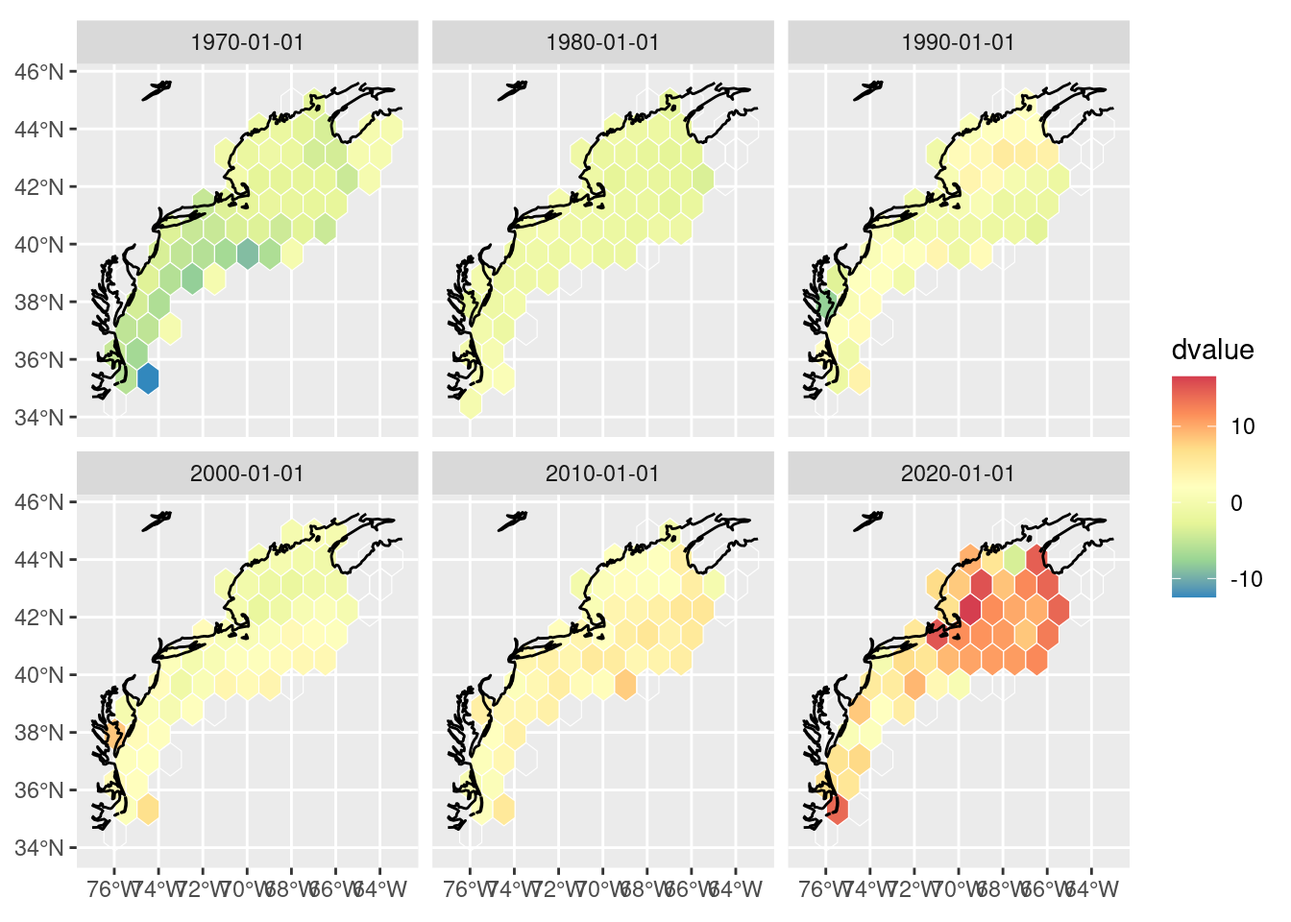
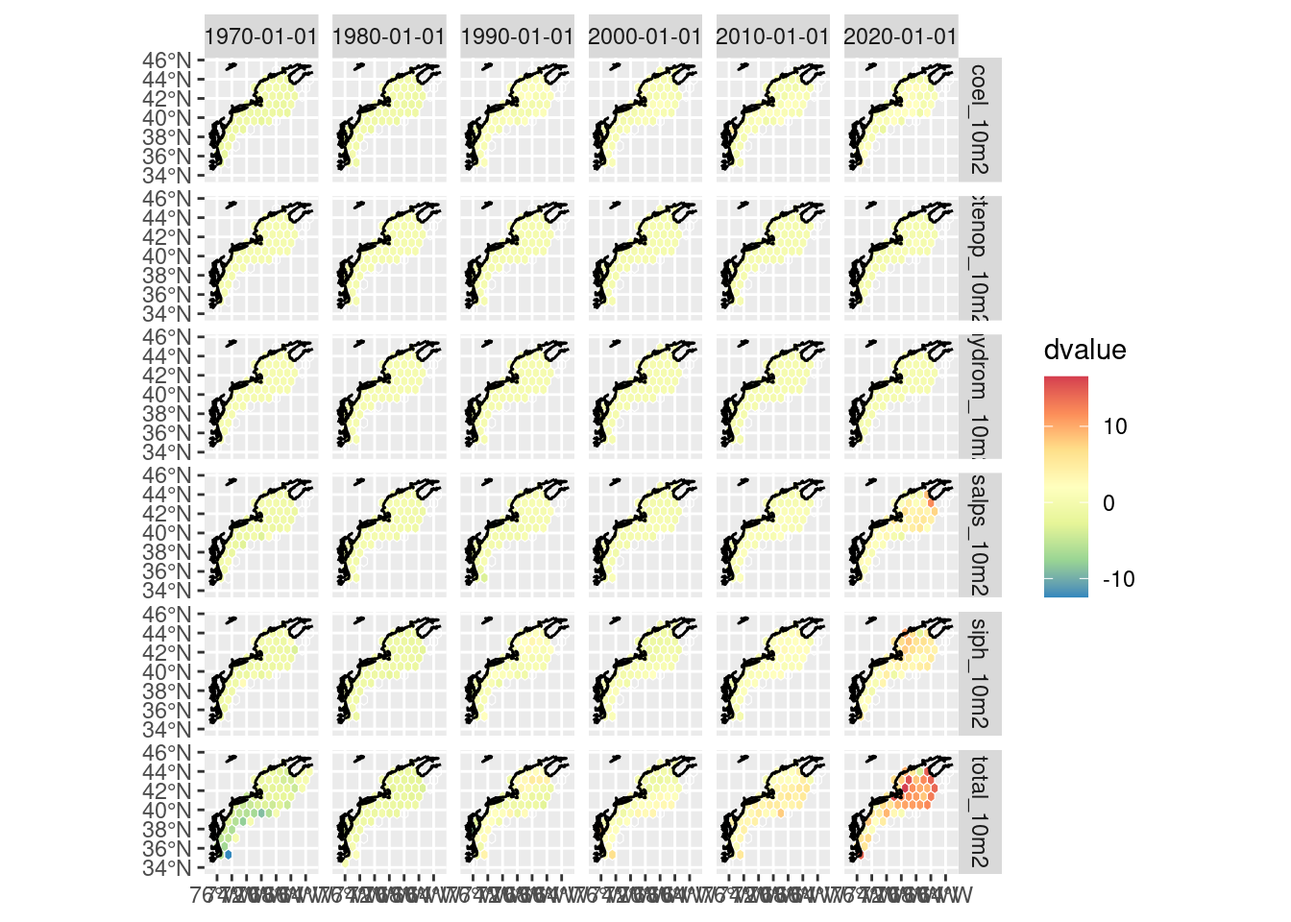
add monthly climatology

diff --git a/docs/07_changes.html b/docs/07_changes.html
@@ -208,6 +208,7 @@ pre > code.sourceCode > span > a:first-child::before { text-decoration: underlin
   <li><a href="#summaries-across-all-time" id="toc-summaries-across-all-time" class="nav-link active" data-scroll-target="#summaries-across-all-time"><span class="header-section-number">1</span> Summaries across all time</a></li>
   <li><a href="#mean-abudance" id="toc-mean-abudance" class="nav-link" data-scroll-target="#mean-abudance"><span class="header-section-number">2</span> Mean abudance</a></li>
   <li><a href="#decadal-abundance" id="toc-decadal-abundance" class="nav-link" data-scroll-target="#decadal-abundance"><span class="header-section-number">3</span> Decadal abundance</a></li>
+  <li><a href="#monthly-climatologies" id="toc-monthly-climatologies" class="nav-link" data-scroll-target="#monthly-climatologies"><span class="header-section-number">4</span> Monthly climatologies</a></li>
   </ul>
 </nav>
     </div>
@@ -237,12 +238,19 @@ pre > code.sourceCode > span > a:first-child::before { text-decoration: underlin
 <div class="cell">
 <details class="code-fold">
 <summary>Code</summary>
-<div class="sourceCode cell-code" id="cb1"><pre class="sourceCode r code-with-copy"><code class="sourceCode r"><span id="cb1-1"><a href="#cb1-1" aria-hidden="true" tabindex="-1"></a>x <span class="ot">=</span> <span class="fu">read_ecomon_spp</span>(<span class="at">form =</span> <span class="st">'sf'</span>) <span class="sc">|&gt;</span> <span class="fu">ecomon_to_long</span>()</span>
-<span id="cb1-2"><a href="#cb1-2" aria-hidden="true" tabindex="-1"></a>h <span class="ot">=</span> <span class="fu">read_hexgrid</span>()</span>
-<span id="cb1-3"><a href="#cb1-3" aria-hidden="true" tabindex="-1"></a>coast <span class="ot">=</span> <span class="fu">read_coast</span>()</span>
-<span id="cb1-4"><a href="#cb1-4" aria-hidden="true" tabindex="-1"></a><span class="fu">plot</span>(sf<span class="sc">::</span><span class="fu">st_geometry</span>(x), <span class="at">pch =</span> <span class="st">"."</span>, <span class="at">axes =</span> <span class="cn">TRUE</span>, <span class="at">reset =</span> <span class="cn">FALSE</span>, <span class="at">main =</span> <span class="st">"All records"</span>)</span>
-<span id="cb1-5"><a href="#cb1-5" aria-hidden="true" tabindex="-1"></a><span class="fu">plot</span>(sf<span class="sc">::</span><span class="fu">st_geometry</span>(h), <span class="at">border =</span> <span class="st">"gray"</span>, <span class="at">add =</span> <span class="cn">TRUE</span>)</span>
-<span id="cb1-6"><a href="#cb1-6" aria-hidden="true" tabindex="-1"></a><span class="fu">plot</span>(coast, <span class="at">col =</span> <span class="st">"orange"</span>, <span class="at">add =</span> <span class="cn">TRUE</span>)</span></code><button title="Copy to Clipboard" class="code-copy-button"><i class="bi"></i></button></pre></div>
+<div class="sourceCode cell-code" id="cb1"><pre class="sourceCode r code-with-copy"><code class="sourceCode r"><span id="cb1-1"><a href="#cb1-1" aria-hidden="true" tabindex="-1"></a>decades <span class="ot">=</span> <span class="fu">seq</span>(<span class="fu">as.Date</span>(<span class="st">"1970-01-01"</span>), <span class="fu">as.Date</span>(<span class="st">"2020-01-01"</span>), <span class="at">by =</span> <span class="st">"10 years"</span>)</span>
+<span id="cb1-2"><a href="#cb1-2" aria-hidden="true" tabindex="-1"></a>x <span class="ot">=</span> <span class="fu">read_ecomon_spp</span>(<span class="at">form =</span> <span class="st">'sf'</span>) <span class="sc">|&gt;</span> <span class="fu">ecomon_to_long</span>()</span>
+<span id="cb1-3"><a href="#cb1-3" aria-hidden="true" tabindex="-1"></a>sf_col <span class="ot">=</span> <span class="fu">attr</span>(x, <span class="st">"sf_column"</span>)</span>
+<span id="cb1-4"><a href="#cb1-4" aria-hidden="true" tabindex="-1"></a>x <span class="ot">=</span> x <span class="sc">|&gt;</span></span>
+<span id="cb1-5"><a href="#cb1-5" aria-hidden="true" tabindex="-1"></a>  dplyr<span class="sc">::</span><span class="fu">mutate</span>(<span class="at">year =</span> <span class="fu">format</span>(date, <span class="st">"%Y"</span>),</span>
+<span id="cb1-6"><a href="#cb1-6" aria-hidden="true" tabindex="-1"></a>                <span class="at">month =</span> <span class="fu">format</span>(date, <span class="st">"%b"</span>) <span class="sc">|&gt;</span> <span class="fu">factor</span>(<span class="at">levels =</span> month.abb),</span>
+<span id="cb1-7"><a href="#cb1-7" aria-hidden="true" tabindex="-1"></a>                <span class="at">decade =</span> decades[<span class="fu">findInterval</span>(.data<span class="sc">$</span>date, decades)],</span>
+<span id="cb1-8"><a href="#cb1-8" aria-hidden="true" tabindex="-1"></a>                <span class="at">.before =</span> dplyr<span class="sc">::</span><span class="fu">all_of</span>(sf_col))</span>
+<span id="cb1-9"><a href="#cb1-9" aria-hidden="true" tabindex="-1"></a>h <span class="ot">=</span> <span class="fu">read_hexgrid</span>()</span>
+<span id="cb1-10"><a href="#cb1-10" aria-hidden="true" tabindex="-1"></a>coast <span class="ot">=</span> <span class="fu">read_coast</span>()</span>
+<span id="cb1-11"><a href="#cb1-11" aria-hidden="true" tabindex="-1"></a><span class="fu">plot</span>(sf<span class="sc">::</span><span class="fu">st_geometry</span>(x), <span class="at">pch =</span> <span class="st">"."</span>, <span class="at">axes =</span> <span class="cn">TRUE</span>, <span class="at">reset =</span> <span class="cn">FALSE</span>, <span class="at">main =</span> <span class="st">"All records"</span>)</span>
+<span id="cb1-12"><a href="#cb1-12" aria-hidden="true" tabindex="-1"></a><span class="fu">plot</span>(sf<span class="sc">::</span><span class="fu">st_geometry</span>(h), <span class="at">border =</span> <span class="st">"gray"</span>, <span class="at">add =</span> <span class="cn">TRUE</span>)</span>
+<span id="cb1-13"><a href="#cb1-13" aria-hidden="true" tabindex="-1"></a><span class="fu">plot</span>(coast, <span class="at">col =</span> <span class="st">"orange"</span>, <span class="at">add =</span> <span class="cn">TRUE</span>)</span></code><button title="Copy to Clipboard" class="code-copy-button"><i class="bi"></i></button></pre></div>
 </details>
 <div class="cell-output-display">
 <div>
@@ -259,12 +267,11 @@ pre > code.sourceCode > span > a:first-child::before { text-decoration: underlin
 <details class="code-fold">
 <summary>Code</summary>
 <div class="sourceCode cell-code" id="cb2"><pre class="sourceCode r code-with-copy"><code class="sourceCode r"><span id="cb2-1"><a href="#cb2-1" aria-hidden="true" tabindex="-1"></a>totabund <span class="ot">=</span> <span class="fu">tally_abundance</span>(x, h, <span class="at">fun =</span> sum, <span class="at">na.rm =</span> <span class="cn">TRUE</span>, <span class="at">shape =</span> <span class="st">"long"</span>) <span class="sc">|&gt;</span></span>
-<span id="cb2-2"><a href="#cb2-2" aria-hidden="true" tabindex="-1"></a>  <span class="co">#dplyr::mutate(value = log(value+0.01)) |&gt; </span></span>
-<span id="cb2-3"><a href="#cb2-3" aria-hidden="true" tabindex="-1"></a>  <span class="fu">wider_abundance</span>()</span>
-<span id="cb2-4"><a href="#cb2-4" aria-hidden="true" tabindex="-1"></a>nbreaks <span class="ot">=</span> <span class="dv">10</span></span>
-<span id="cb2-5"><a href="#cb2-5" aria-hidden="true" tabindex="-1"></a><span class="fu">plot</span>(totabund,</span>
-<span id="cb2-6"><a href="#cb2-6" aria-hidden="true" tabindex="-1"></a>     <span class="at">nbreaks =</span> nbreaks,</span>
-<span id="cb2-7"><a href="#cb2-7" aria-hidden="true" tabindex="-1"></a>     <span class="at">pal =</span> RColorBrewer<span class="sc">::</span><span class="fu">brewer.pal</span>(nbreaks<span class="dv">-1</span>, <span class="st">"Greens"</span>))</span></code><button title="Copy to Clipboard" class="code-copy-button"><i class="bi"></i></button></pre></div>
+<span id="cb2-2"><a href="#cb2-2" aria-hidden="true" tabindex="-1"></a>  <span class="fu">wider_abundance</span>()</span>
+<span id="cb2-3"><a href="#cb2-3" aria-hidden="true" tabindex="-1"></a>nbreaks <span class="ot">=</span> <span class="dv">10</span></span>
+<span id="cb2-4"><a href="#cb2-4" aria-hidden="true" tabindex="-1"></a><span class="fu">plot</span>(totabund,</span>
+<span id="cb2-5"><a href="#cb2-5" aria-hidden="true" tabindex="-1"></a>     <span class="at">nbreaks =</span> nbreaks,</span>
+<span id="cb2-6"><a href="#cb2-6" aria-hidden="true" tabindex="-1"></a>     <span class="at">pal =</span> RColorBrewer<span class="sc">::</span><span class="fu">brewer.pal</span>(nbreaks<span class="dv">-1</span>, <span class="st">"Greens"</span>))</span></code><button title="Copy to Clipboard" class="code-copy-button"><i class="bi"></i></button></pre></div>
 </details>
 <div class="cell-output-display">
 <div>
@@ -299,42 +306,37 @@ pre > code.sourceCode > span > a:first-child::before { text-decoration: underlin
 </section>
 <section id="decadal-abundance" class="level1" data-number="3">
 <h1 data-number="3"><span class="header-section-number">3</span> Decadal abundance</h1>
+<p>Here we look at decadal abundance departures for the long term mean.</p>
 <div class="cell">
 <details class="code-fold">
 <summary>Code</summary>
-<div class="sourceCode cell-code" id="cb4"><pre class="sourceCode r code-with-copy"><code class="sourceCode r"><span id="cb4-1"><a href="#cb4-1" aria-hidden="true" tabindex="-1"></a>decades <span class="ot">=</span> <span class="fu">seq</span>(<span class="fu">as.Date</span>(<span class="st">"1970-01-01"</span>), <span class="fu">as.Date</span>(<span class="st">"2020-01-01"</span>), <span class="at">by =</span> <span class="st">"10 years"</span>)</span>
-<span id="cb4-2"><a href="#cb4-2" aria-hidden="true" tabindex="-1"></a>y <span class="ot">=</span> dplyr<span class="sc">::</span><span class="fu">mutate</span>(x,</span>
-<span id="cb4-3"><a href="#cb4-3" aria-hidden="true" tabindex="-1"></a>                  <span class="at">decade =</span> decades[<span class="fu">findInterval</span>(.data<span class="sc">$</span>date, decades)]) <span class="sc">|&gt;</span></span>
-<span id="cb4-4"><a href="#cb4-4" aria-hidden="true" tabindex="-1"></a>  <span class="fu">group_by</span>(name, decade) <span class="sc">|&gt;</span></span>
-<span id="cb4-5"><a href="#cb4-5" aria-hidden="true" tabindex="-1"></a>  <span class="fu">group_map</span>(</span>
-<span id="cb4-6"><a href="#cb4-6" aria-hidden="true" tabindex="-1"></a>    <span class="cf">function</span>(tbl, key){</span>
-<span id="cb4-7"><a href="#cb4-7" aria-hidden="true" tabindex="-1"></a>      <span class="fu">tally_by_poly</span>(tbl, h, <span class="at">fun =</span> mean, <span class="at">na.rm =</span> <span class="cn">TRUE</span>, <span class="at">shape =</span> <span class="st">"long"</span>) <span class="sc">|&gt;</span></span>
-<span id="cb4-8"><a href="#cb4-8" aria-hidden="true" tabindex="-1"></a>        dplyr<span class="sc">::</span><span class="fu">mutate</span>(<span class="at">name =</span> key<span class="sc">$</span>name, <span class="at">decade =</span> key<span class="sc">$</span>decade, <span class="at">.before =</span> <span class="dv">1</span>) <span class="sc">|&gt;</span></span>
-<span id="cb4-9"><a href="#cb4-9" aria-hidden="true" tabindex="-1"></a>        <span class="fu">write_abundance</span>(<span class="fu">sprintf</span>(<span class="st">"%s_%s_mean"</span>,</span>
-<span id="cb4-10"><a href="#cb4-10" aria-hidden="true" tabindex="-1"></a>                                <span class="fu">format</span>(key<span class="sc">$</span>decade, <span class="st">"%Y"</span>),</span>
-<span id="cb4-11"><a href="#cb4-11" aria-hidden="true" tabindex="-1"></a>                                key<span class="sc">$</span>name))</span>
-<span id="cb4-12"><a href="#cb4-12" aria-hidden="true" tabindex="-1"></a>    }</span>
-<span id="cb4-13"><a href="#cb4-13" aria-hidden="true" tabindex="-1"></a>  ) <span class="sc">|&gt;</span></span>
-<span id="cb4-14"><a href="#cb4-14" aria-hidden="true" tabindex="-1"></a>  dplyr<span class="sc">::</span><span class="fu">bind_rows</span>()</span></code><button title="Copy to Clipboard" class="code-copy-button"><i class="bi"></i></button></pre></div>
+<div class="sourceCode cell-code" id="cb4"><pre class="sourceCode r code-with-copy"><code class="sourceCode r"><span id="cb4-1"><a href="#cb4-1" aria-hidden="true" tabindex="-1"></a>y <span class="ot">=</span> x <span class="sc">|&gt;</span></span>
+<span id="cb4-2"><a href="#cb4-2" aria-hidden="true" tabindex="-1"></a>  <span class="fu">group_by</span>(name, decade) <span class="sc">|&gt;</span></span>
+<span id="cb4-3"><a href="#cb4-3" aria-hidden="true" tabindex="-1"></a>  <span class="fu">group_map</span>(</span>
+<span id="cb4-4"><a href="#cb4-4" aria-hidden="true" tabindex="-1"></a>    <span class="cf">function</span>(tbl, key){</span>
+<span id="cb4-5"><a href="#cb4-5" aria-hidden="true" tabindex="-1"></a>      <span class="fu">tally_by_poly</span>(tbl, h, <span class="at">fun =</span> mean, <span class="at">na.rm =</span> <span class="cn">TRUE</span>, <span class="at">shape =</span> <span class="st">"long"</span>) <span class="sc">|&gt;</span></span>
+<span id="cb4-6"><a href="#cb4-6" aria-hidden="true" tabindex="-1"></a>        dplyr<span class="sc">::</span><span class="fu">mutate</span>(<span class="at">name =</span> key<span class="sc">$</span>name, <span class="at">decade =</span> key<span class="sc">$</span>decade, <span class="at">.before =</span> <span class="dv">1</span>)</span>
+<span id="cb4-7"><a href="#cb4-7" aria-hidden="true" tabindex="-1"></a>    }</span>
+<span id="cb4-8"><a href="#cb4-8" aria-hidden="true" tabindex="-1"></a>  ) <span class="sc">|&gt;</span></span>
+<span id="cb4-9"><a href="#cb4-9" aria-hidden="true" tabindex="-1"></a>  dplyr<span class="sc">::</span><span class="fu">bind_rows</span>()</span></code><button title="Copy to Clipboard" class="code-copy-button"><i class="bi"></i></button></pre></div>
 </details>
 </div>
 <div class="cell">
 <details class="code-fold">
 <summary>Code</summary>
-<div class="sourceCode cell-code" id="cb5"><pre class="sourceCode r code-with-copy"><code class="sourceCode r"><span id="cb5-1"><a href="#cb5-1" aria-hidden="true" tabindex="-1"></a>ta <span class="ot">=</span> <span class="fu">tally_abundance</span>(x, h, <span class="at">fun =</span> mean, <span class="at">na.rm =</span> <span class="cn">TRUE</span>, <span class="at">shape =</span> <span class="st">"long"</span>) <span class="sc">|&gt;</span></span>
-<span id="cb5-2"><a href="#cb5-2" aria-hidden="true" tabindex="-1"></a>  dplyr<span class="sc">::</span><span class="fu">filter</span>(name <span class="sc">==</span> <span class="st">"total_10m2"</span>)</span></code><button title="Copy to Clipboard" class="code-copy-button"><i class="bi"></i></button></pre></div>
+<div class="sourceCode cell-code" id="cb5"><pre class="sourceCode r code-with-copy"><code class="sourceCode r"><span id="cb5-1"><a href="#cb5-1" aria-hidden="true" tabindex="-1"></a>ta <span class="ot">=</span> <span class="fu">tally_abundance</span>(x, h, <span class="at">fun =</span> mean, <span class="at">na.rm =</span> <span class="cn">TRUE</span>, <span class="at">shape =</span> <span class="st">"long"</span>)</span></code><button title="Copy to Clipboard" class="code-copy-button"><i class="bi"></i></button></pre></div>
 </details>
 </div>
 <div class="cell">
 <details class="code-fold">
 <summary>Code</summary>
 <div class="sourceCode cell-code" id="cb6"><pre class="sourceCode r code-with-copy"><code class="sourceCode r"><span id="cb6-1"><a href="#cb6-1" aria-hidden="true" tabindex="-1"></a>dy <span class="ot">=</span> y <span class="sc">|&gt;</span></span>
-<span id="cb6-2"><a href="#cb6-2" aria-hidden="true" tabindex="-1"></a>  dplyr<span class="sc">::</span><span class="fu">filter</span>(name <span class="sc">==</span> <span class="st">"total_10m2"</span>) <span class="sc">|&gt;</span></span>
-<span id="cb6-3"><a href="#cb6-3" aria-hidden="true" tabindex="-1"></a>  dplyr<span class="sc">::</span><span class="fu">group_by</span>(decade) <span class="sc">|&gt;</span></span>
-<span id="cb6-4"><a href="#cb6-4" aria-hidden="true" tabindex="-1"></a>  dplyr<span class="sc">::</span><span class="fu">group_map</span>(</span>
-<span id="cb6-5"><a href="#cb6-5" aria-hidden="true" tabindex="-1"></a>    <span class="cf">function</span>(tbl, key){</span>
-<span id="cb6-6"><a href="#cb6-6" aria-hidden="true" tabindex="-1"></a>      d <span class="ot">=</span> tbl<span class="sc">$</span>value <span class="sc">-</span> ta<span class="sc">$</span>value</span>
-<span id="cb6-7"><a href="#cb6-7" aria-hidden="true" tabindex="-1"></a>      dplyr<span class="sc">::</span><span class="fu">mutate</span>(tbl, </span>
+<span id="cb6-2"><a href="#cb6-2" aria-hidden="true" tabindex="-1"></a>  dplyr<span class="sc">::</span><span class="fu">group_by</span>(name, decade) <span class="sc">|&gt;</span></span>
+<span id="cb6-3"><a href="#cb6-3" aria-hidden="true" tabindex="-1"></a>  dplyr<span class="sc">::</span><span class="fu">group_map</span>(</span>
+<span id="cb6-4"><a href="#cb6-4" aria-hidden="true" tabindex="-1"></a>    <span class="cf">function</span>(tbl, key){</span>
+<span id="cb6-5"><a href="#cb6-5" aria-hidden="true" tabindex="-1"></a>      d <span class="ot">=</span> tbl<span class="sc">$</span>value <span class="sc">-</span> dplyr<span class="sc">::</span><span class="fu">filter</span>(ta, name <span class="sc">==</span> key<span class="sc">$</span>name) <span class="sc">|&gt;</span> dplyr<span class="sc">::</span><span class="fu">pull</span>(value)</span>
+<span id="cb6-6"><a href="#cb6-6" aria-hidden="true" tabindex="-1"></a>      dplyr<span class="sc">::</span><span class="fu">mutate</span>(tbl, </span>
+<span id="cb6-7"><a href="#cb6-7" aria-hidden="true" tabindex="-1"></a>                    <span class="at">name =</span> key<span class="sc">$</span>name,</span>
 <span id="cb6-8"><a href="#cb6-8" aria-hidden="true" tabindex="-1"></a>                    <span class="at">dvalue =</span> d, </span>
 <span id="cb6-9"><a href="#cb6-9" aria-hidden="true" tabindex="-1"></a>                    <span class="at">decade =</span> key<span class="sc">$</span>decade,</span>
 <span id="cb6-10"><a href="#cb6-10" aria-hidden="true" tabindex="-1"></a>                    <span class="at">.after =</span> dplyr<span class="sc">::</span><span class="fu">all_of</span>(<span class="st">"value"</span>))  </span>
@@ -349,7 +351,7 @@ pre > code.sourceCode > span > a:first-child::before { text-decoration: underlin
 <span id="cb7-2"><a href="#cb7-2" aria-hidden="true" tabindex="-1"></a>  <span class="fu">geom_sf</span>(<span class="at">color =</span> <span class="st">"white"</span>, <span class="fu">aes</span>(<span class="at">fill =</span> dvalue)) <span class="sc">+</span></span>
 <span id="cb7-3"><a href="#cb7-3" aria-hidden="true" tabindex="-1"></a>  <span class="fu">geom_sf</span>(<span class="at">data =</span> coast) <span class="sc">+</span> </span>
 <span id="cb7-4"><a href="#cb7-4" aria-hidden="true" tabindex="-1"></a>  <span class="fu">scale_fill_distiller</span>(<span class="at">palette =</span> <span class="st">"Spectral"</span>, <span class="at">na.value =</span> <span class="cn">NA</span>, <span class="at">type =</span> <span class="st">"div"</span>) <span class="sc">+</span></span>
-<span id="cb7-5"><a href="#cb7-5" aria-hidden="true" tabindex="-1"></a>  <span class="fu">facet_wrap</span>(<span class="sc">~</span>decade)</span></code><button title="Copy to Clipboard" class="code-copy-button"><i class="bi"></i></button></pre></div>
+<span id="cb7-5"><a href="#cb7-5" aria-hidden="true" tabindex="-1"></a>  <span class="fu">facet_grid</span>(name <span class="sc">~</span> decade)</span></code><button title="Copy to Clipboard" class="code-copy-button"><i class="bi"></i></button></pre></div>
 </details>
 <div class="cell-output-display">
 <div>
@@ -358,6 +360,77 @@ pre > code.sourceCode > span > a:first-child::before { text-decoration: underlin
 </figure>
 </div>
 </div>
+</div>
+</section>
+<section id="monthly-climatologies" class="level1" data-number="4">
+<h1 data-number="4"><span class="header-section-number">4</span> Monthly climatologies</h1>
+<p>Here we compute means by month for each species (and the total.)</p>
+<div class="cell">
+<details class="code-fold">
+<summary>Code</summary>
+<div class="sourceCode cell-code" id="cb8"><pre class="sourceCode r code-with-copy"><code class="sourceCode r"><span id="cb8-1"><a href="#cb8-1" aria-hidden="true" tabindex="-1"></a>ma <span class="ot">=</span> x <span class="sc">|&gt;</span></span>
+<span id="cb8-2"><a href="#cb8-2" aria-hidden="true" tabindex="-1"></a>  <span class="fu">group_by</span>(name, month) <span class="sc">|&gt;</span></span>
+<span id="cb8-3"><a href="#cb8-3" aria-hidden="true" tabindex="-1"></a>  <span class="fu">group_map</span>(</span>
+<span id="cb8-4"><a href="#cb8-4" aria-hidden="true" tabindex="-1"></a>    <span class="cf">function</span>(tbl, key){</span>
+<span id="cb8-5"><a href="#cb8-5" aria-hidden="true" tabindex="-1"></a>      <span class="fu">tally_by_poly</span>(tbl, h, <span class="at">fun =</span> mean, <span class="at">na.rm =</span> <span class="cn">TRUE</span>, <span class="at">shape =</span> <span class="st">"long"</span>) <span class="sc">|&gt;</span></span>
+<span id="cb8-6"><a href="#cb8-6" aria-hidden="true" tabindex="-1"></a>        dplyr<span class="sc">::</span><span class="fu">mutate</span>(<span class="at">name =</span> key<span class="sc">$</span>name, <span class="at">month =</span> key<span class="sc">$</span>month, <span class="at">.before =</span> <span class="dv">1</span>)</span>
+<span id="cb8-7"><a href="#cb8-7" aria-hidden="true" tabindex="-1"></a>    }</span>
+<span id="cb8-8"><a href="#cb8-8" aria-hidden="true" tabindex="-1"></a>  ) <span class="sc">|&gt;</span></span>
+<span id="cb8-9"><a href="#cb8-9" aria-hidden="true" tabindex="-1"></a>  dplyr<span class="sc">::</span><span class="fu">bind_rows</span>()</span></code><button title="Copy to Clipboard" class="code-copy-button"><i class="bi"></i></button></pre></div>
+</details>
+</div>
+<div class="cell">
+<details class="code-fold">
+<summary>Code</summary>
+<div class="sourceCode cell-code" id="cb9"><pre class="sourceCode r code-with-copy"><code class="sourceCode r"><span id="cb9-1"><a href="#cb9-1" aria-hidden="true" tabindex="-1"></a>y <span class="ot">=</span> x <span class="sc">|&gt;</span></span>
+<span id="cb9-2"><a href="#cb9-2" aria-hidden="true" tabindex="-1"></a>  <span class="fu">group_by</span>(name, decade, month) <span class="sc">|&gt;</span></span>
+<span id="cb9-3"><a href="#cb9-3" aria-hidden="true" tabindex="-1"></a>  <span class="fu">group_map</span>(</span>
+<span id="cb9-4"><a href="#cb9-4" aria-hidden="true" tabindex="-1"></a>    <span class="cf">function</span>(tbl, key){</span>
+<span id="cb9-5"><a href="#cb9-5" aria-hidden="true" tabindex="-1"></a>      <span class="fu">tally_by_poly</span>(tbl, h, <span class="at">fun =</span> mean, <span class="at">na.rm =</span> <span class="cn">TRUE</span>, <span class="at">shape =</span> <span class="st">"long"</span>) <span class="sc">|&gt;</span></span>
+<span id="cb9-6"><a href="#cb9-6" aria-hidden="true" tabindex="-1"></a>        dplyr<span class="sc">::</span><span class="fu">mutate</span>(<span class="at">name =</span> key<span class="sc">$</span>name, <span class="at">decade =</span> key<span class="sc">$</span>decade, <span class="at">month =</span> key<span class="sc">$</span>month, <span class="at">.before =</span> <span class="dv">1</span>)</span>
+<span id="cb9-7"><a href="#cb9-7" aria-hidden="true" tabindex="-1"></a>    }</span>
+<span id="cb9-8"><a href="#cb9-8" aria-hidden="true" tabindex="-1"></a>  ) <span class="sc">|&gt;</span></span>
+<span id="cb9-9"><a href="#cb9-9" aria-hidden="true" tabindex="-1"></a>  dplyr<span class="sc">::</span><span class="fu">bind_rows</span>()</span></code><button title="Copy to Clipboard" class="code-copy-button"><i class="bi"></i></button></pre></div>
+</details>
+</div>
+<p>And here we find the departure from the monthly mean for each decade.</p>
+<div class="cell">
+<details class="code-fold">
+<summary>Code</summary>
+<div class="sourceCode cell-code" id="cb10"><pre class="sourceCode r code-with-copy"><code class="sourceCode r"><span id="cb10-1"><a href="#cb10-1" aria-hidden="true" tabindex="-1"></a>dy <span class="ot">=</span> y <span class="sc">|&gt;</span></span>
+<span id="cb10-2"><a href="#cb10-2" aria-hidden="true" tabindex="-1"></a>  dplyr<span class="sc">::</span><span class="fu">group_by</span>(name, decade, month) <span class="sc">|&gt;</span></span>
+<span id="cb10-3"><a href="#cb10-3" aria-hidden="true" tabindex="-1"></a>  dplyr<span class="sc">::</span><span class="fu">group_map</span>(</span>
+<span id="cb10-4"><a href="#cb10-4" aria-hidden="true" tabindex="-1"></a>    <span class="cf">function</span>(tbl, key){</span>
+<span id="cb10-5"><a href="#cb10-5" aria-hidden="true" tabindex="-1"></a>      d <span class="ot">=</span> tbl<span class="sc">$</span>value <span class="sc">-</span> dplyr<span class="sc">::</span><span class="fu">filter</span>(ma, name <span class="sc">==</span> key<span class="sc">$</span>name, month <span class="sc">==</span> key<span class="sc">$</span>month) <span class="sc">|&gt;</span> </span>
+<span id="cb10-6"><a href="#cb10-6" aria-hidden="true" tabindex="-1"></a>        dplyr<span class="sc">::</span><span class="fu">pull</span>(value)</span>
+<span id="cb10-7"><a href="#cb10-7" aria-hidden="true" tabindex="-1"></a>      dplyr<span class="sc">::</span><span class="fu">mutate</span>(tbl, </span>
+<span id="cb10-8"><a href="#cb10-8" aria-hidden="true" tabindex="-1"></a>                    <span class="at">name =</span> key<span class="sc">$</span>name,</span>
+<span id="cb10-9"><a href="#cb10-9" aria-hidden="true" tabindex="-1"></a>                    <span class="at">dvalue =</span> d, </span>
+<span id="cb10-10"><a href="#cb10-10" aria-hidden="true" tabindex="-1"></a>                    <span class="at">month =</span> key<span class="sc">$</span>month,</span>
+<span id="cb10-11"><a href="#cb10-11" aria-hidden="true" tabindex="-1"></a>                    <span class="at">decade =</span> key<span class="sc">$</span>decade, </span>
+<span id="cb10-12"><a href="#cb10-12" aria-hidden="true" tabindex="-1"></a>                    <span class="at">.after =</span> dplyr<span class="sc">::</span><span class="fu">all_of</span>(<span class="st">"value"</span>))  </span>
+<span id="cb10-13"><a href="#cb10-13" aria-hidden="true" tabindex="-1"></a>    } ) <span class="sc">|&gt;</span></span>
+<span id="cb10-14"><a href="#cb10-14" aria-hidden="true" tabindex="-1"></a>  dplyr<span class="sc">::</span><span class="fu">bind_rows</span>()</span></code><button title="Copy to Clipboard" class="code-copy-button"><i class="bi"></i></button></pre></div>
+</details>
+</div>
+<p>We plot these in a series by species.</p>
+<div class="cell">
+<details class="code-fold">
+<summary>Code</summary>
+<div class="sourceCode cell-code" id="cb11"><pre class="sourceCode r code-with-copy"><code class="sourceCode r"><span id="cb11-1"><a href="#cb11-1" aria-hidden="true" tabindex="-1"></a>spp <span class="ot">=</span> <span class="fu">count</span>(dy, name) <span class="sc">|&gt;</span> <span class="fu">pull</span>(<span class="at">var =</span> <span class="dv">1</span>)</span>
+<span id="cb11-2"><a href="#cb11-2" aria-hidden="true" tabindex="-1"></a>sppname <span class="ot">=</span> <span class="fu">sub</span>(<span class="st">"_10m2"</span>, <span class="st">""</span>, spp, <span class="at">fixed =</span> <span class="cn">TRUE</span>)</span>
+<span id="cb11-3"><a href="#cb11-3" aria-hidden="true" tabindex="-1"></a>gg <span class="ot">=</span> <span class="fu">lapply</span>(<span class="fu">seq_along</span>(spp),</span>
+<span id="cb11-4"><a href="#cb11-4" aria-hidden="true" tabindex="-1"></a>  <span class="cf">function</span>(i){</span>
+<span id="cb11-5"><a href="#cb11-5" aria-hidden="true" tabindex="-1"></a>    <span class="fu">ggplot</span>(<span class="at">data =</span> <span class="fu">filter</span>(dy, name <span class="sc">==</span> spp[i])) <span class="sc">+</span></span>
+<span id="cb11-6"><a href="#cb11-6" aria-hidden="true" tabindex="-1"></a>      <span class="fu">geom_sf</span>(<span class="at">color =</span> <span class="st">"white"</span>, <span class="fu">aes</span>(<span class="at">fill =</span> dvalue)) <span class="sc">+</span></span>
+<span id="cb11-7"><a href="#cb11-7" aria-hidden="true" tabindex="-1"></a>      <span class="fu">geom_sf</span>(<span class="at">data =</span> coast) <span class="sc">+</span> </span>
+<span id="cb11-8"><a href="#cb11-8" aria-hidden="true" tabindex="-1"></a>      <span class="fu">scale_fill_distiller</span>(<span class="at">palette =</span> <span class="st">"Spectral"</span>, <span class="at">na.value =</span> <span class="cn">NA</span>, <span class="at">type =</span> <span class="st">"div"</span>) <span class="sc">+</span></span>
+<span id="cb11-9"><a href="#cb11-9" aria-hidden="true" tabindex="-1"></a>      <span class="fu">labs</span>(<span class="at">fill =</span> sppname[i]) <span class="sc">+</span> </span>
+<span id="cb11-10"><a href="#cb11-10" aria-hidden="true" tabindex="-1"></a>      <span class="fu">facet_grid</span>(decade <span class="sc">~</span> month) <span class="sc">+</span> </span>
+<span id="cb11-11"><a href="#cb11-11" aria-hidden="true" tabindex="-1"></a>      <span class="fu">theme</span>(<span class="at">axis.text =</span> <span class="fu">element_blank</span>())</span>
+<span id="cb11-12"><a href="#cb11-12" aria-hidden="true" tabindex="-1"></a>  })</span>
+<span id="cb11-13"><a href="#cb11-13" aria-hidden="true" tabindex="-1"></a><span class="cf">for</span> (g <span class="cf">in</span> gg) g</span></code><button title="Copy to Clipboard" class="code-copy-button"><i class="bi"></i></button></pre></div>
+</details>
 </div>
 
 
